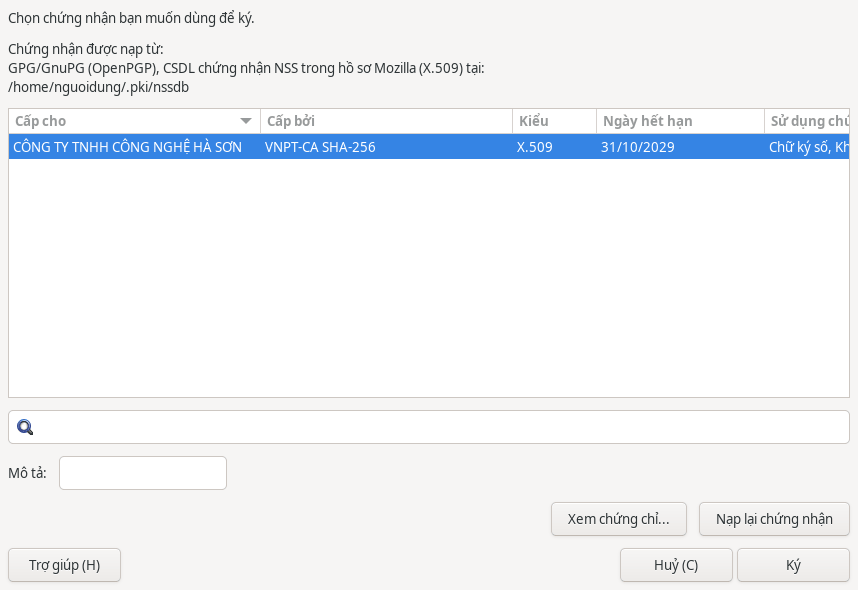
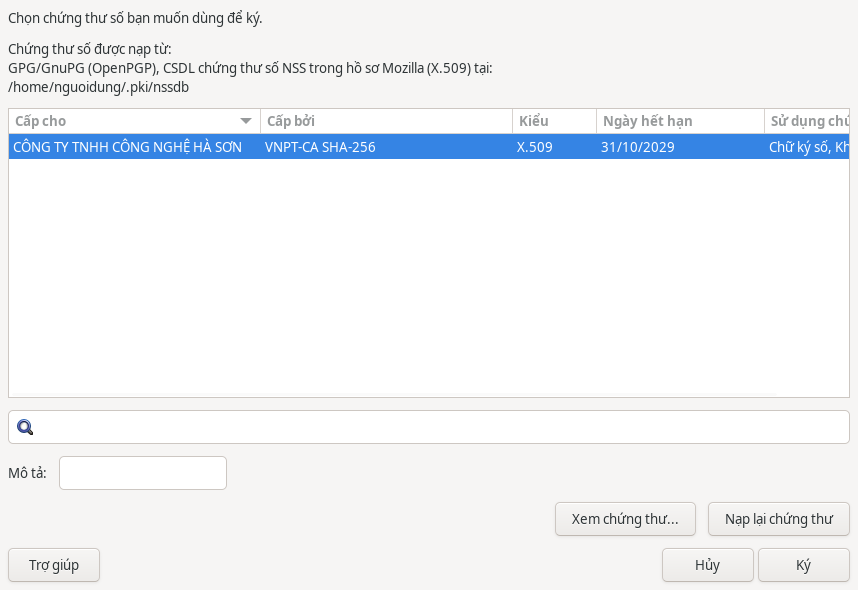
docs(help): use chứng thư and Hủy on the USB token page and retake its dialog screenshots

diff --git a/extensions/hst-vietnamese-tools/help/ky-so-usb-token.html b/extensions/hst-vietnamese-tools/help/ky-so-usb-token.html
@@ -40,7 +40,7 @@
 <div class="note warn"><p><strong>Cẩn thận với mã PIN.</strong> Nhập sai mã PIN nhiều lần liên tiếp, token có thể tự khóa. Khi đó cần nhà cung cấp mở khóa.</p></div>
 
 <h2>2. Windows</h2>
-<p>Sau khi cài driver của nhà cung cấp, chứng thư số trên token tự xuất hiện trong kho chứng chỉ cá nhân của Windows. HST Office đọc trực tiếp kho này, không cần cấu hình thêm. Mã PIN do hộp thoại của driver token hỏi.</p>
+<p>Sau khi cài driver của nhà cung cấp, chứng thư số trên token tự xuất hiện trong kho chứng thư cá nhân của Windows. HST Office đọc trực tiếp kho này, không cần cấu hình thêm. Mã PIN do hộp thoại của driver token hỏi.</p>
 <p>Nếu không thấy chứng thư khi ký: rút và cắm lại token, mở phần mềm quản lý token của nhà cung cấp để đăng ký chứng thư vào Windows, rồi mở lại HST Office.</p>
 
 <h2>3. Linux (Ubuntu)</h2>
@@ -90,18 +90,18 @@
   <li>Hoàn tất nội dung và lưu tài liệu. Sửa tài liệu sau khi ký sẽ làm chữ ký mất hiệu lực.</li>
   <li>Trên thẻ <span class="menu">Tập tin</span>, bấm <span class="menu">Chữ ký số...</span> (hoặc menu <span class="menu">Tập tin → Chữ ký số → Chữ ký số...</span>).</li>
   <li>Bấm <span class="menu">Ký tài liệu...</span>. Nếu được hỏi, nhập mã PIN của token.</li>
-  <li>Trong hộp thoại <span class="menu">Lựa chọn chứng chỉ</span>, chọn dòng có tên của bạn ở cột <span class="menu">Cấp cho</span>, có thể ghi <span class="menu">Mô tả</span>, rồi bấm <span class="menu">Ký</span>.</li>
+  <li>Trong hộp thoại <span class="menu">Lựa chọn chứng thư</span>, chọn dòng có tên của bạn ở cột <span class="menu">Cấp cho</span>, có thể ghi <span class="menu">Mô tả</span>, rồi bấm <span class="menu">Ký</span>.</li>
   <li>Bấm <span class="menu">Đóng</span>, rồi trả lời câu hỏi “Bạn có muốn ghi nhớ chữ ký đó cho mỗi lần lưu không?” (<span class="menu">Có</span> hoặc <span class="menu">Không</span>). Thanh thông báo hiện “Tài liệu này đã được ký điện tử và chữ ký hợp lệ.”</li>
 </ol>
 <p>Hình minh họa dùng chứng thư mẫu, chỉ phục vụ hướng dẫn.</p>
-<figure><img src="images/usb-token-pin.png" alt="Hộp thoại Nhập mã PIN của thiết bị ký số USB Token với ô Mã PIN đang trống, các nút Trợ giúp, Huỷ và OK." loading="lazy" width="452" height="188"><figcaption>Hộp thoại <span class="menu">Nhập mã PIN</span> của token. Mã PIN không hiển thị khi nhập.</figcaption></figure>
-<figure><img src="images/usb-token-certificate.png" alt="Hộp thoại Lựa chọn chứng chỉ, chứng thư nạp từ /home/nguoidung/.pki/nssdb; dòng Cấp cho CÔNG TY TNHH CÔNG NGHỆ HÀ SƠN, Cấp bởi VNPT-CA SHA-256, kiểu X.509, hết hạn 31/10/2029 đang được chọn; ô Mô tả và nút Ký." loading="lazy" width="858" height="590"><figcaption>Chọn chứng thư trên token trong hộp thoại <span class="menu">Lựa chọn chứng chỉ</span>, rồi bấm <span class="menu">Ký</span>. Hình minh họa dùng chứng thư mẫu, chỉ phục vụ hướng dẫn.</figcaption></figure>
+<figure><img src="images/usb-token-pin.png" alt="Hộp thoại Nhập mã PIN của thiết bị ký số USB Token với ô Mã PIN đang trống, các nút Trợ giúp, Hủy và OK." loading="lazy" width="452" height="188"><figcaption>Hộp thoại <span class="menu">Nhập mã PIN</span> của token. Mã PIN không hiển thị khi nhập.</figcaption></figure>
+<figure><img src="images/usb-token-certificate.png" alt="Hộp thoại Lựa chọn chứng thư, chứng thư nạp từ /home/nguoidung/.pki/nssdb; dòng Cấp cho CÔNG TY TNHH CÔNG NGHỆ HÀ SƠN, Cấp bởi VNPT-CA SHA-256, kiểu X.509, hết hạn 31/10/2029 đang được chọn; ô Mô tả và nút Ký." loading="lazy" width="858" height="590"><figcaption>Chọn chứng thư trên token trong hộp thoại <span class="menu">Lựa chọn chứng thư</span>, rồi bấm <span class="menu">Ký</span>. Hình minh họa dùng chứng thư mẫu, chỉ phục vụ hướng dẫn.</figcaption></figure>
 <figure><img src="images/usb-token-signed.png" alt="Văn bản bao-cao-nam.odt đã ký trong HST Writer, tiêu đề thẻ ghi Đã ký, thanh thông báo xanh: Tài liệu này đã được ký điện tử và chữ ký hợp lệ, nút Hiện chữ ký." loading="lazy" width="1000" height="626"><figcaption>Tài liệu đã ký: thanh thông báo báo chữ ký hợp lệ.</figcaption></figure>
 
 <h2>6. Xuất PDF có chữ ký số</h2>
 <ol>
   <li>Chọn <span class="menu">Tập tin → Xuất dạng PDF...</span>, mở thẻ <span class="menu">Chữ ký số</span>.</li>
-  <li>Bấm <span class="menu">Chọn...</span> và chọn chứng thư trên token. Để trống ô <span class="menu">Mật khẩu chứng chỉ</span>: mã PIN được hỏi riêng.</li>
+  <li>Bấm <span class="menu">Chọn...</span> và chọn chứng thư trên token. Để trống ô <span class="menu">Mật khẩu chứng thư</span>: mã PIN được hỏi riêng.</li>
   <li>Điền <span class="menu">Vị trí</span>, <span class="menu">Thông tin liên hệ</span>, <span class="menu">Lý do</span> nếu cần; chọn máy chủ cấp dấu thời gian ở <span class="menu">Tổ chức cấp dấu thời gian</span> (xem mục 8).</li>
   <li>Bấm <span class="menu">Xuất</span>, chọn nơi lưu và nhập mã PIN khi được hỏi.</li>
 </ol>
@@ -119,7 +119,7 @@
 <p>Mở tài liệu đã ký: biểu tượng chữ ký ở thanh trạng thái và thanh thông báo cho biết chữ ký còn hợp lệ không. Chọn <span class="menu">Tập tin → Chữ ký số → Chữ ký số...</span> để xem người ký và thời điểm ký.</p>
 <div class="table-wrap"><table><caption>Sự cố thường gặp</caption><thead><tr><th scope="col">Hiện tượng</th><th scope="col">Cách xử lý</th></tr></thead><tbody>
 <tr><td>Danh sách chứng thư trống</td><td>Kiểm tra token đã cắm và driver đã cài; trên Linux/macOS, đăng ký thư viện token như mục 3 hoặc 4; đóng hết cửa sổ HST Office rồi mở lại.</td></tr>
-<tr><td>Hỏi mã PIN nhiều lần</td><td>Mã PIN sai. Bấm <span class="menu">Huỷ</span> nếu không chắc chắn, tránh để token bị khóa.</td></tr>
+<tr><td>Hỏi mã PIN nhiều lần</td><td>Mã PIN sai. Bấm <span class="menu">Hủy</span> nếu không chắc chắn, tránh để token bị khóa.</td></tr>
 <tr><td>Chữ ký hợp lệ nhưng không thẩm tra được chứng thư</td><td>Máy chưa tin cậy chứng thư gốc của nhà cung cấp. Cài chứng thư gốc theo hướng dẫn của nhà cung cấp.</td></tr>
 <tr><td>Chữ ký báo không hợp lệ</td><td>Tài liệu đã bị sửa sau khi ký. Ký lại bản cuối cùng.</td></tr>
 </tbody></table></div>
